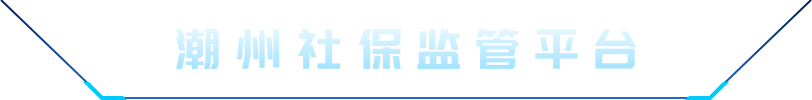
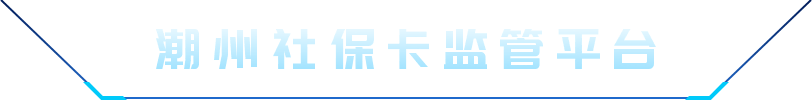
fix table Bug

Changed region(s): [[0.1847, 0.27, 0.8313, 0.69]]

diff --git a/src/components/eCharts/HospitalTop10.vue b/src/components/eCharts/HospitalTop10.vue
@@ -129,7 +129,7 @@
 
 <style scoped>
     @import "../../assets/css/HosTop10.css";
-
+    
     #hosTop10 /deep/ .el-table__body tr, /deep/ .el-table__body td {
         padding: 2px;
         border: none;
@@ -140,7 +140,7 @@
         animation: tableAnimate 1.5s ease-in-out;
         animation-fill-mode: forwards;
     }
-
+    
     #hosTop10 /deep/ .el-table--group:after, /deep/ .el-table--border:after, /deep/ .el-table::before {
         content: '';
         position: absolute;
@@ -148,7 +148,7 @@
         display: none;
         z-index: 1;
     }
-
+    
     #hosTop10 /deep/ .el-table__fixed::before, /deep/ .el-table__fixed-right::before {
         content: '';
         position: absolute;
@@ -160,7 +160,7 @@
         z-index: 4;
         display: none !important;
     }
-
+    
     /*------------------------------第二轮播表格-------------------------------*/
     #hosTop10-2 /deep/ .el-table__body tr, /deep/ .el-table__body td {
         padding: 2px;
@@ -172,7 +172,7 @@
         animation: tableAnimate 1.5s ease-in-out;
         animation-fill-mode: forwards;
     }
-
+    
     #hosTop10-2 /deep/ .el-table--group:after, /deep/ .el-table--border:after, /deep/ .el-table::before {
         content: '';
         position: absolute;
@@ -180,7 +180,7 @@
         display: none;
         z-index: 1;
     }
-
+    
     #hosTop10-2 /deep/ .el-table__fixed::before, /deep/ .el-table__fixed-right::before {
         content: '';
         position: absolute;
@@ -192,7 +192,7 @@
         z-index: 4;
         display: none !important;
     }
-
+    
     /*    表格动画*/
     @keyframes tableAnimate {
         0% {
@@ -203,8 +203,8 @@
             opacity: 1;
         }
     }
-
-
+    
+    
     /*表格离开动画*/
     @keyframes tableLeaveAnimate {
         0% {

diff --git a/public/index.html b/public/index.html
@@ -5,7 +5,7 @@
     <meta http-equiv="X-UA-Compatible" content="IE=edge">
     <meta name="viewport" content="width=device-width,initial-scale=1.0">
     <link rel="icon" href="<%= BASE_URL %>favicon.ico">
-    <title>潮州社保监控大屏</title>
+    <title>潮州社保卡监控大屏</title>
     <style>
       body{
         padding: 0;
